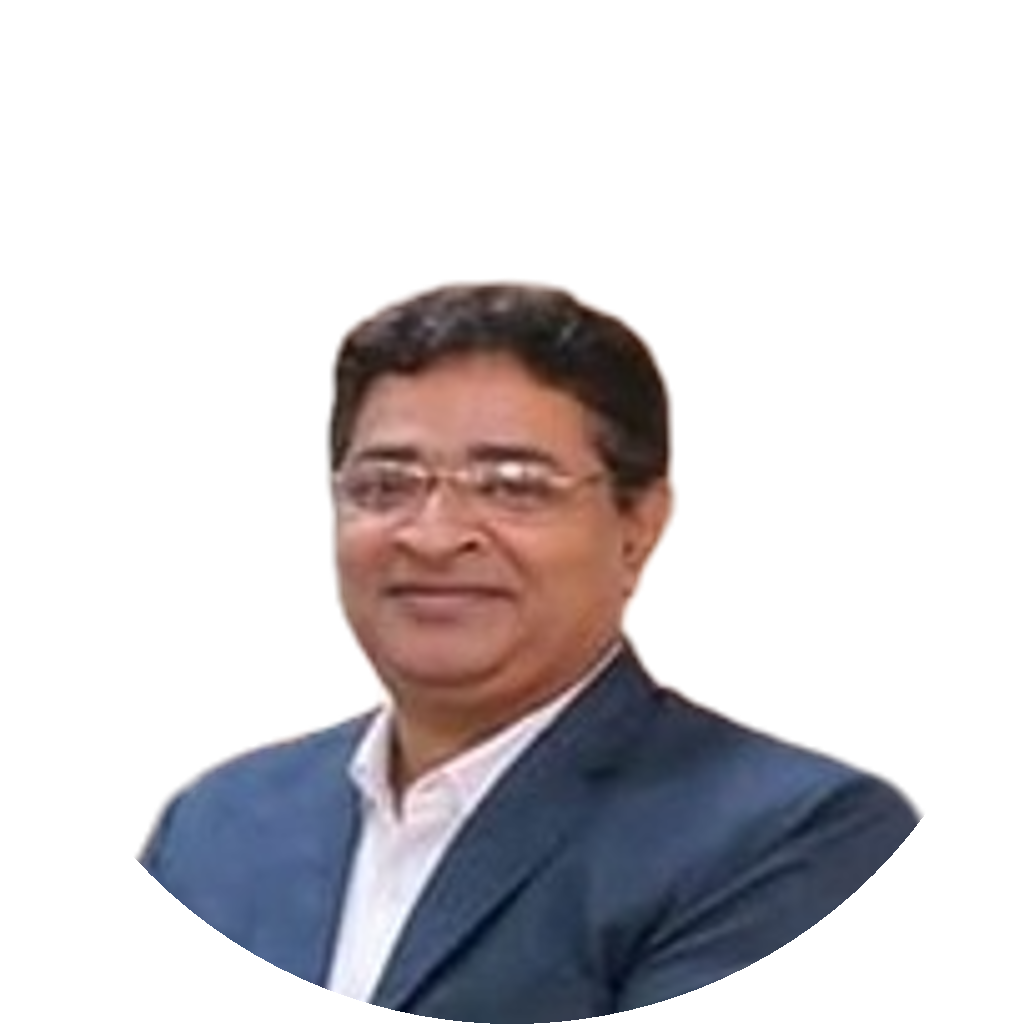
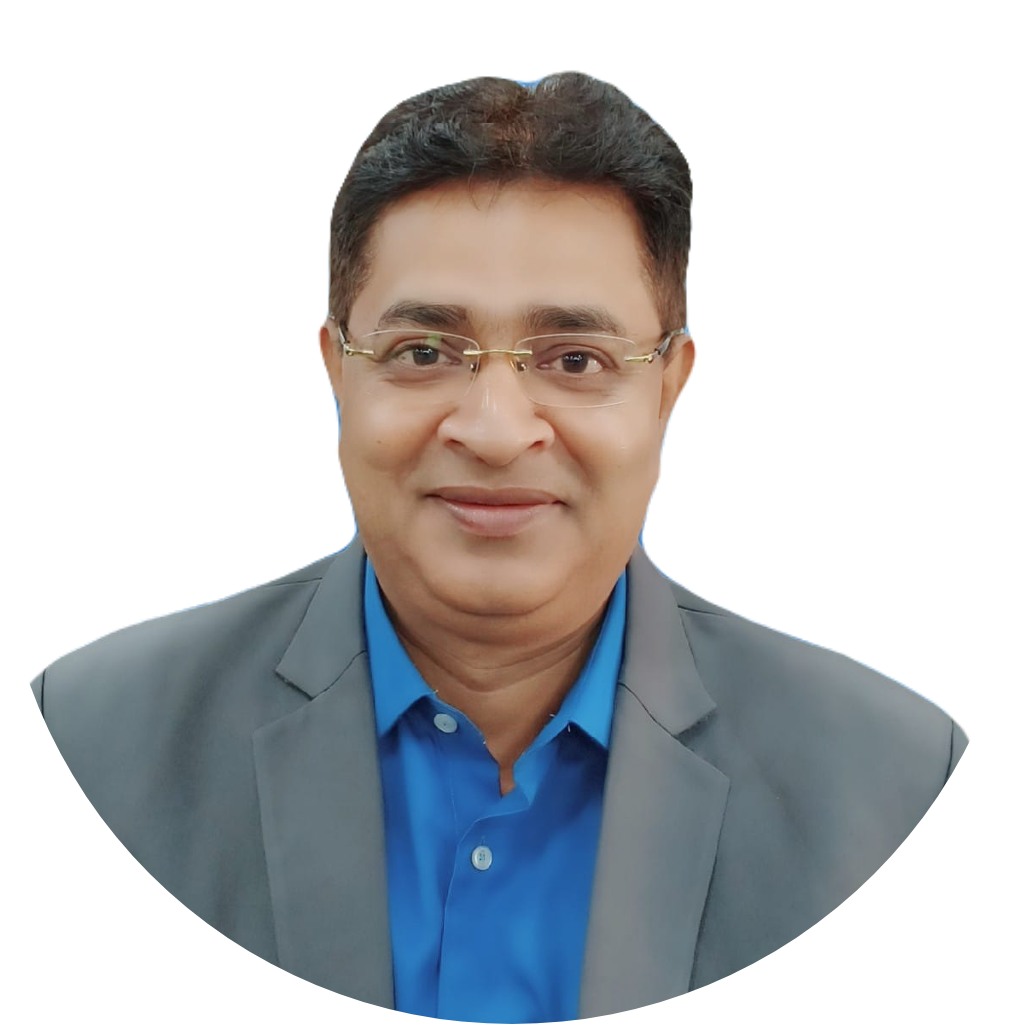
Added 2k21 photos section and updated photos and fixed some small bugs

diff --git a/routes/admin.js b/routes/admin.js
@@ -33,10 +33,10 @@ router.get('/logout', adminController.adminGetLogout)
 
 router.get('/photos', isAdminLoggedIn, async function (req, res, next) {
     try {
-        // const allPhotos2k21 = await photoModel.find({ year: "2k21" });
+        const allPhotos2k21 = await photoModel.find({ year: "2k21" });
         const allPhotos2k22 = await photoModel.find({ year: "2k22" });
         const allPhotos2k23 = await photoModel.find({ year: "2k23" });
-        res.render('adminPhotos', {allPhotos2k22, allPhotos2k23, messages: req.flash('success') });
+        res.render('adminPhotos', {allPhotos2k21, allPhotos2k22, allPhotos2k23, messages: req.flash('success') });
     }
     catch (err) {
         console.error('Error in geting Post Data:- ', err.message);

diff --git a/routes/index.js b/routes/index.js
@@ -66,7 +66,7 @@ router.get('/gallery', isLoggedIn, function (req, res, next) {
 router.get('/gallery/photos/:year', isLoggedIn, async function (req, res, next) {
   try {
     const year = req.params.year
-    const validYear = ["2k22", "2k23"]
+    const validYear = ["2k21", "2k22", "2k23"]
     if (validYear.includes(year)) {
       const allPhotos = await photoModel.find({ year });
       res.render('photos', { allPhotos, title: `Image Gallery ${year}`, bgimg: `/images/imageBG${year}.jpg`, year });
